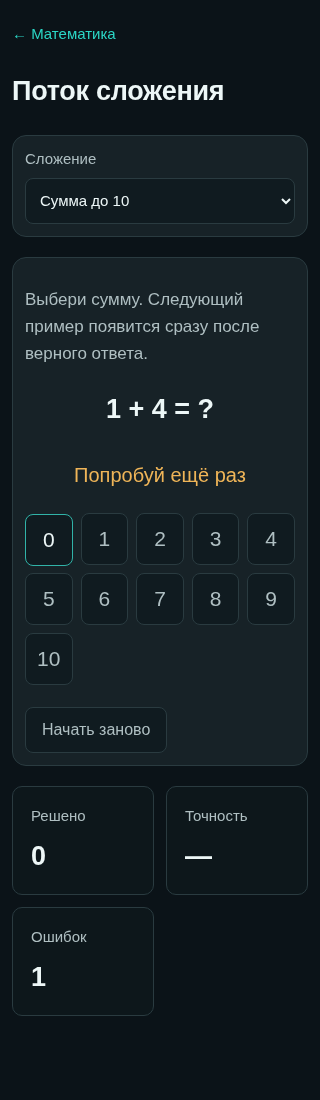
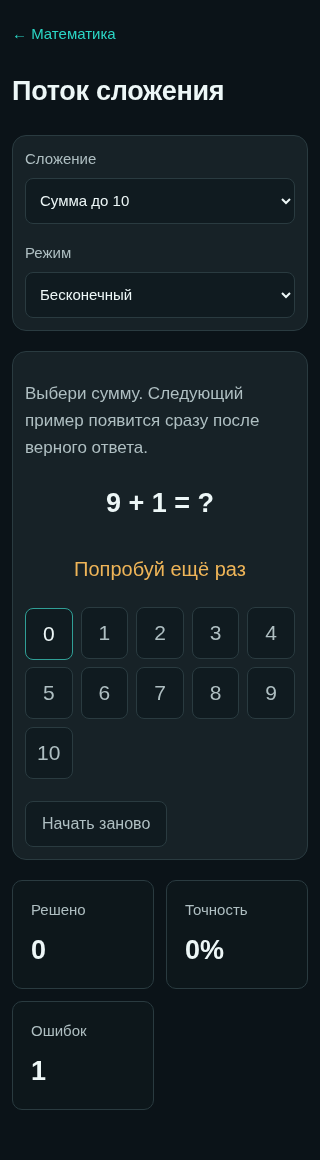
Add survival and three-heart modes to addition stream

diff --git a/src/modules/mathlab/addition-flow.ts b/src/modules/mathlab/addition-flow.ts
@@ -17,31 +17,66 @@ export class AdditionDeck {
   const task=this.deck.pop()!;return this.random()<.5?task:{a:task.b,b:task.a};
  }
 }
-export interface FlowProgress {version:1;limit:10|20;task:Addition;hadError:boolean;solved:number;correct:number;errors:number}
-export function validFlow(value:unknown):value is FlowProgress{
- const p=value as FlowProgress|undefined;
- return !!p&&p.version===1&&(p.limit===10||p.limit===20)&&!!p.task&&Number.isInteger(p.task.a)&&Number.isInteger(p.task.b)&&p.task.a>=1&&p.task.b>=1&&additionTotal(p.task)<=p.limit&&typeof p.hadError==='boolean'&&[p.solved,p.correct,p.errors].every(n=>Number.isSafeInteger(n)&&n>=0)&&p.correct<=p.solved;
+export type FlowMode='endless'|'survival'|'lives';
+export interface FlowProgress {mode:FlowMode;lives:number;ended:boolean;version:1;limit:10|20;task:Addition;hadError:boolean;solved:number;correct:number;errors:number}
+type StoredFlow=Omit<FlowProgress,'mode'|'lives'|'ended'> & Partial<Pick<FlowProgress,'mode'|'lives'|'ended'>>;
+export function validFlow(value:unknown):value is StoredFlow{
+ const p=value as StoredFlow|undefined;
+ if(!p||p.version!==1||![10,20].includes(p.limit)||!p.task||!Number.isInteger(p.task.a)||!Number.isInteger(p.task.b)||p.task.a<1||p.task.b<1||additionTotal(p.task)>p.limit||typeof p.hadError!=='boolean'||![p.solved,p.correct,p.errors].every(n=>Number.isSafeInteger(n)&&n>=0)||p.correct>p.solved)return false;
+ // Old snapshots had no mode fields. They resume as endless, keeping all progress.
+ if(p.mode===undefined&&p.lives===undefined&&p.ended===undefined)return true;
+ if(!p.mode||!['endless','survival','lives'].includes(p.mode)||typeof p.lives!=='number'||!Number.isInteger(p.lives)||typeof p.ended!=='boolean')return false;
+ return p.lives>=0&&p.lives<=(p.mode==='lives'?3:p.mode==='survival'?1:0)&&(p.mode==='endless'?!p.ended:p.ended===(p.lives===0));
 }
 const memory=new Map<string,FlowProgress>();
 export const mountAdditionFlow:MountFn=(root,ctx)=>{
  const storageKey=`sciencechess-mathlab:v1:${ctx.profile.id}:addition-flow`;
  let saved:unknown=memory.get(storageKey);try{if(!saved)saved=JSON.parse(localStorage.getItem(storageKey)||'null');}catch{}
  let deck=new AdditionDeck(validFlow(saved)?saved.limit:10);
- let state:FlowProgress=validFlow(saved)?{...saved,task:{...saved.task}}:{version:1,limit:10,task:deck.next(),hadError:false,solved:0,correct:0,errors:0};
+ let state:FlowProgress=validFlow(saved)?{...saved,mode:saved.mode??'endless',lives:saved.lives??0,ended:saved.ended??false,task:{...saved.task}}:{mode:'endless',lives:0,ended:false,version:1,limit:10,task:deck.next(),hadError:false,solved:0,correct:0,errors:0};
  let timer:number|undefined,locked=false,disposed=false;
  const page=el('div',{class:'mathlab','data-exercise':'addition-flow'});
  const settings=el('select',{'aria-label':'Сложение'});
  for(const limit of [10,20]){const option=el('option',{value:String(limit)},[`Сумма до ${limit}`]);option.selected=limit===state.limit;settings.append(option);}
+ const modeSelect=el('select',{'aria-label':'Режим'});
+ for(const [value,label] of [['endless','Бесконечный'],['survival','До первой ошибки'],['lives','Три жизни']]){const option=el('option',{value},[label]);option.selected=value===state.mode;modeSelect.append(option);}
+ const lives=el('div',{class:'ml-flow-lives',role:'img'});
+ const result=el('div',{class:'ml-flow-result',role:'status','aria-live':'polite'});
+ const instruction=el('p',{class:'ml-instruction'});
  const equation=el('div',{class:'ml-equation',role:'status','aria-live':'polite'});
  const feedback=el('p',{class:'ml-flow-feedback',role:'status','aria-live':'polite'});
  const pad=el('div',{class:'ml-keypad ml-flow-keypad',role:'group','aria-label':'Выбери сумму'});
  const stats=el('div',{class:'ml-stats'}),notice=el('p',{class:'ml-muted'});
  function persist(){memory.set(storageKey,{...state,task:{...state.task}});try{localStorage.setItem(storageKey,JSON.stringify(state));}catch{notice.textContent='Прогресс сохраняется только в этой вкладке.';}}
- function renderStats(){stats.replaceChildren(...[['Решено',state.solved],['Точность',state.solved?`${Math.round(state.correct/state.solved*100)}%`:'—'],['Ошибок',state.errors]].map(([title,value])=>el('div',{class:'ml-stat'},[el('span',{},[String(title)]),el('strong',{},[String(value)])])));}
- function show(){equation.textContent=`${state.task.a} + ${state.task.b} = ?`;pad.querySelectorAll<HTMLButtonElement>('button').forEach(b=>{b.disabled=false;b.removeAttribute('aria-pressed');});renderStats();}
+ function renderStats(){const attempted=state.solved+(state.hadError?1:0);stats.replaceChildren(...[['Решено',state.solved],['Точность',attempted?`${Math.round(state.correct/attempted*100)}%`:'—'],['Ошибок',state.errors]].map(([title,value])=>el('div',{class:'ml-stat'},[el('span',{},[String(title)]),el('strong',{},[String(value)])])));}
+ function renderLives(){
+  lives.hidden=state.mode==='endless';lives.replaceChildren();
+  lives.setAttribute('aria-label',`Жизни: ${state.lives} из ${state.mode==='lives'?3:1}`);
+  for(let i=0;i<state.lives;i++){
+   const svg=document.createElementNS('http://www.w3.org/2000/svg','svg');svg.setAttribute('viewBox','0 0 32 30');svg.setAttribute('aria-hidden','true');svg.classList.add('ml-flow-heart');
+   const path=document.createElementNS(svg.namespaceURI,'path');path.setAttribute('d','M16 28 3.5 15.5C-4 8 6-3 14 5l2 2 2-2c8-8 18 3 10.5 10.5Z');svg.append(path);lives.append(svg);
+  }
+ }
+ function show(){
+  locked=state.ended;renderLives();result.replaceChildren();result.hidden=!state.ended;
+  instruction.textContent=state.mode==='endless'?'Выбери сумму. Следующий пример появится сразу после верного ответа.':state.mode==='survival'?'Решай до первой ошибки. Выбери сумму.':'Три жизни. Каждый неверный ответ убирает сердечко.';
+  if(state.ended){result.append(el('h2',{},['Попытка завершена']),el('p',{},[`Решено примеров: ${state.solved}.`]),button('Новая попытка',()=>reset(), 'ml-primary'));feedback.className='ml-flow-feedback ml-retry';feedback.textContent=`${state.task.a} + ${state.task.b} = ${additionTotal(state.task)}`;}
+  equation.textContent=`${state.task.a} + ${state.task.b} = ?`;pad.querySelectorAll<HTMLButtonElement>('button').forEach(b=>{b.disabled=state.ended;b.removeAttribute('aria-pressed');});renderStats();}
  function answer(n:number){
   if(disposed||locked)return;
-  if(n!==additionTotal(state.task)){state.hadError=true;state.errors++;feedback.className='ml-flow-feedback ml-retry';feedback.textContent='Попробуй ещё раз';persist();renderStats();return;}
+  if(n!==additionTotal(state.task)){
+   state.hadError=true;state.errors++;
+   if(state.mode!=='endless'){state.lives--;state.ended=state.lives===0;}
+   feedback.className='ml-flow-feedback ml-retry';feedback.textContent='Попробуй ещё раз';
+   persist();renderStats();renderLives();
+   if(state.ended)show();
+   else if(state.mode!=='endless'){
+    // Lock briefly so a double tap cannot consume several hearts at once.
+    locked=true;pad.querySelectorAll<HTMLButtonElement>('button').forEach(b=>b.disabled=true);
+    timer=window.setTimeout(()=>{timer=undefined;if(disposed)return;locked=false;show();},350);
+   }
+   return;
+  }
   locked=true;state.solved++;if(!state.hadError)state.correct++;
   const solved=state.task;feedback.className='ml-flow-feedback ml-correct';feedback.textContent=`Верно! ${solved.a} + ${solved.b} = ${n}`;
   pad.querySelectorAll<HTMLButtonElement>('button').forEach(b=>{b.disabled=true;b.setAttribute('aria-pressed',String(Number(b.dataset.value)===n));});
@@ -49,9 +84,10 @@ export const mountAdditionFlow:MountFn=(root,ctx)=>{
   timer=window.setTimeout(()=>{timer=undefined;if(disposed)return;locked=false;feedback.textContent='';show();},350);
  }
  function keypad(){pad.replaceChildren();for(let n=0;n<=state.limit;n++){const b=button(String(n),()=>answer(n));b.dataset.value=String(n);pad.append(b);}}
- function reset(limit:10|20=state.limit){if(timer!==undefined)clearTimeout(timer);timer=undefined;locked=false;deck=new AdditionDeck(limit);state={version:1,limit,task:deck.next(),hadError:false,solved:0,correct:0,errors:0};feedback.textContent='';persist();keypad();show();}
+ function reset(limit:10|20=state.limit,mode:FlowMode=state.mode){if(timer!==undefined)clearTimeout(timer);timer=undefined;locked=false;deck=new AdditionDeck(limit);state={mode,lives:mode==='lives'?3:mode==='survival'?1:0,ended:false,version:1,limit,task:deck.next(),hadError:false,solved:0,correct:0,errors:0};feedback.textContent='';persist();keypad();show();}
+ modeSelect.addEventListener('change',()=>reset(state.limit,modeSelect.value as FlowMode));
  settings.addEventListener('change',()=>reset(Number(settings.value) as 10|20));
- page.append(el('a',{href:'#math',class:'ml-back'},['← Математика']),el('h1',{},['Поток сложения']),el('section',{class:'ml-panel'},[el('label',{class:'ml-field'},[el('span',{},['Сложение']),settings])]),el('section',{class:'ml-panel ml-flow-stage'},[el('p',{class:'ml-instruction'},['Выбери сумму. Следующий пример появится сразу после верного ответа.']),equation,feedback,pad,el('div',{class:'ml-actions'},[button('Начать заново',()=>reset())])]),stats,notice);
+ page.append(el('a',{href:'#math',class:'ml-back'},['← Математика']),el('h1',{},['Поток сложения']),el('section',{class:'ml-panel'},[el('label',{class:'ml-field'},[el('span',{},['Сложение']),settings]),el('label',{class:'ml-field'},[el('span',{},['Режим']),modeSelect])]),el('section',{class:'ml-panel ml-flow-stage'},[instruction,lives,equation,feedback,result,pad,el('div',{class:'ml-actions'},[button('Начать заново',()=>reset())])]),stats,notice);
  root.append(page);keypad();show();
  return ()=>{disposed=true;if(timer!==undefined)clearTimeout(timer);};
 };

diff --git a/tests/addition-flow.test.ts b/tests/addition-flow.test.ts
@@ -29,3 +29,35 @@ it('works when local storage is blocked and resets safely while transitioning',a
   await vi.advanceTimersByTimeAsync(1000);expect(root.querySelector('.ml-equation')!.textContent).toBe(text);expect(root.querySelectorAll('.ml-keypad button')).toHaveLength(21);expect(root.querySelector('.ml-stats')!.textContent).toContain('Решено0');
  }finally{dispose();root.remove();storage.mockRestore();vi.useRealTimers();}
 });
+it('survival ends on the first error, restores the ended state, and restarts cleanly',async()=>{
+ vi.useFakeTimers();const root=document.createElement('main');document.body.append(root);const ctx={profile:{id:'flow-survival-unit'}} as AppContext;let dispose=mountAdditionFlow(root,ctx);
+ const choose=(n:number)=>root.querySelector<HTMLButtonElement>(`[data-value="${n}"]`)!.click();
+ try{
+  const mode=root.querySelector<HTMLSelectElement>('[aria-label="Режим"]')!;mode.value='survival';mode.dispatchEvent(new Event('change'));
+  expect(root.querySelectorAll('.ml-flow-heart')).toHaveLength(1);
+  const sum=()=>[...root.querySelector('.ml-equation')!.textContent!.matchAll(/\d+/g)].reduce((n,m)=>n+Number(m[0]),0);
+  choose(sum());await vi.advanceTimersByTimeAsync(350);choose(0);choose(0);
+  expect(root.textContent).toContain('Попытка завершена');expect(root.querySelectorAll('.ml-flow-heart')).toHaveLength(0);expect(root.querySelector('.ml-stats')!.textContent).toContain('Точность50%');
+  expect([...root.querySelectorAll<HTMLButtonElement>('.ml-keypad button')].every(b=>b.disabled)).toBe(true);
+  dispose();root.replaceChildren();dispose=mountAdditionFlow(root,ctx);expect(root.textContent).toContain('Попытка завершена');
+  [...root.querySelectorAll('button')].find(b=>b.textContent==='Новая попытка')!.click();expect(root.querySelectorAll('.ml-flow-heart')).toHaveLength(1);expect(root.querySelector('.ml-stats')!.textContent).toContain('Решено0');
+ }finally{dispose();root.remove();vi.useRealTimers();}
+});
+it('three lives disappear once per separate error and mode changes cancel pending cooldowns',async()=>{
+ vi.useFakeTimers();const root=document.createElement('main');document.body.append(root);const dispose=mountAdditionFlow(root,{profile:{id:'flow-three-unit'}} as AppContext);
+ try{
+  const mode=root.querySelector<HTMLSelectElement>('[aria-label="Режим"]')!;mode.value='lives';mode.dispatchEvent(new Event('change'));
+  const wrong=()=>root.querySelector<HTMLButtonElement>('[data-value="0"]')!.click();
+  expect(root.querySelectorAll('.ml-flow-heart')).toHaveLength(3);wrong();wrong();expect(root.querySelectorAll('.ml-flow-heart')).toHaveLength(2);
+  await vi.advanceTimersByTimeAsync(350);wrong();expect(root.querySelectorAll('.ml-flow-heart')).toHaveLength(1);
+  await vi.advanceTimersByTimeAsync(350);wrong();expect(root.querySelectorAll('.ml-flow-heart')).toHaveLength(0);expect(root.textContent).toContain('Попытка завершена');
+  mode.value='lives';mode.dispatchEvent(new Event('change'));wrong();mode.value='endless';mode.dispatchEvent(new Event('change'));await vi.advanceTimersByTimeAsync(1000);
+  expect(root.querySelector<HTMLElement>('.ml-flow-lives')!.hidden).toBe(true);expect(root.querySelector('.ml-stats')!.textContent).toContain('Ошибок0');wrong();expect(root.textContent).toContain('Попробуй ещё раз');expect(root.querySelector('.ml-flow-result')!.hasAttribute('hidden')).toBe(true);
+ }finally{dispose();root.remove();vi.useRealTimers();}
+});
+it('preserves legacy endless progress and rejects inconsistent life snapshots',()=>{
+ const old={version:1,limit:10,task:{a:3,b:4},hadError:false,solved:7,correct:6,errors:1};const id='flow-legacy';localStorage.setItem(`sciencechess-mathlab:v1:${id}:addition-flow`,JSON.stringify(old));
+ const root=document.createElement('main');const dispose=mountAdditionFlow(root,{profile:{id}} as AppContext);
+ try{expect(root.querySelector('.ml-stats')!.textContent).toContain('Решено7');expect(root.querySelector<HTMLSelectElement>('[aria-label="Режим"]')!.value).toBe('endless');}finally{dispose();}
+ expect(validFlow({...old,mode:'lives',lives:0,ended:false})).toBe(false);expect(validFlow({...old,mode:'lives',lives:-1,ended:true})).toBe(false);expect(validFlow({...old,mode:'survival',lives:3,ended:false})).toBe(false);expect(validFlow({...old,mode:'lives',lives:0,ended:true})).toBe(true);
+});

diff --git a/src/modules/mathlab/index.ts b/src/modules/mathlab/index.ts
@@ -22,7 +22,7 @@ export const mountMathLab:MountFn=(root,ctx)=>{
  page.append(el('p',{class:'ml-eyebrow'},['MathLab']),el('h1',{},['Математика']),el('p',{class:'ml-intro'},['Числа, их части и первые шаги в устном счёте.']));
  const cards=el('div',{class:'ml-cards'});
  for(const id of EXERCISES.filter(id=>id!=='material'))cards.append(el('a',{class:'ml-card',href:route(id)},[el('span',{class:'ml-symbol','aria-hidden':'true'},[symbols[id]]),el('h2',{},[TITLES[id]]),el('p',{},[descriptions[id]]),el('span',{class:'ml-card-link'},['Открыть →'])]));
- cards.append(el('a',{class:'ml-card',href:'#math-addition-flow'},[el('span',{class:'ml-symbol','aria-hidden':'true'},['5 + 3']),el('h2',{},['Поток сложения']),el('p',{},['Короткие примеры без конца серии. Выбирай ответ и решай дальше.']),el('span',{class:'ml-card-link'},['Открыть →'])]));
+ cards.append(el('a',{class:'ml-card',href:'#math-addition-flow'},[el('span',{class:'ml-symbol','aria-hidden':'true'},['5 + 3']),el('h2',{},['Поток сложения']),el('p',{},['Сложение потоком: без конца, до ошибки или с тремя жизнями.']),el('span',{class:'ml-card-link'},['Открыть →'])]));
  page.append(cards);const recent=el('section',{class:'ml-panel'},[el('h2',{},['Последние тренировки'])]);const list=el('div');history(list,mathStorage(ctx.profile.id).results().filter(r=>r.exercise!=='material'));recent.append(list);page.append(recent);
  return ()=>{};
 };

diff --git a/src/modules/mathlab/styles.css b/src/modules/mathlab/styles.css
@@ -97,3 +97,10 @@
 .mathlab .ml-flow-feedback{min-height:30px;text-align:center;font-size:20px;margin:8px 0}
 .mathlab .ml-flow-keypad{max-width:500px}
 .mathlab .ml-flow-keypad .btn{min-height:52px}
+.mathlab .ml-flow-lives{display:flex;justify-content:center;gap:10px;min-height:34px;margin:16px 0}
+.mathlab .ml-flow-heart{width:32px;height:30px;fill:#ed7585}
+.mathlab .ml-flow-result{text-align:center;border:1px solid var(--ml-line);border-radius:12px;padding:18px;margin:16px 0}
+.mathlab .ml-flow-result h2{margin:0}
+.mathlab .ml-flow-stage .ml-flow-result[hidden]{display:none}
+.mathlab[data-exercise=addition-flow]>.ml-panel:first-of-type{display:grid;grid-template-columns:repeat(2,minmax(0,1fr));gap:18px}
+@media(max-width:430px){.mathlab[data-exercise=addition-flow]>.ml-panel:first-of-type{grid-template-columns:1fr}}

diff --git a/docs/addition-flow/README.md b/docs/addition-flow/README.md
@@ -2,12 +2,13 @@
 
 MathLab → Поток сложения, прямая ссылка `#math-addition-flow`.
 
+- Режимы: «Бесконечный», «До первой ошибки» (1 жизнь) и «Три жизни» (3 сердечка). Неверный ответ убирает сердце, верный не расходует жизни. При нуле жизней ввод блокируется, показывается правильная сумма и результат; «Новая попытка» восстанавливает жизни. Короткая блокировка после ошибки защищает от двойного нажатия.
 - Бесконечная последовательность сложений с положительными целыми слагаемыми, сумма до 10 по умолчанию или до 20.
 - Выбор ответа кнопками 0–10 / 0–20 без текстового поля и экранной клавиатуры. Доступны обычные Tab/Enter/Space.
 - Правильный ответ блокирует ввод на 350 мс, показывает подтверждение и автоматически открывает следующий пример. Неправильный оставляет текущий пример, правильный ответ заранее не раскрывается.
-- Решено — число завершённых примеров; точность — доля примеров, решённых с первой попытки; ошибки — число неверных ответов. Таймера и конечной серии нет.
+- Решено — число завершённых примеров; точность — доля примеров, решённых с первой попытки; ошибки — число неверных ответов. Ограничения времени нет; в режимах выживания попытка заканчивается при потере всех жизней. Точность включает текущий пример с ошибкой, даже если он пока не решён.
 - Перемешанная колода из 25 или 100 разных пар заново перемешивается после исчерпания. Соседние пары не повторяются, включая перестановку слагаемых. Память не растёт с продолжительностью работы.
-- Локальный снимок прогресса обновляется после каждого ответа: текущий пример, первая попытка, счётчики и диапазон. После перезагрузки можно продолжить. Изменение диапазона и «Начать заново» сбрасывают поток. При недоступном localStorage работает сохранение в памяти вкладки.
+- Локальный снимок прогресса обновляется после каждого ответа: текущий пример, первая попытка, счётчики, диапазон, режим, оставшиеся жизни и завершение попытки. Старые снимки автоматически открываются в бесконечном режиме без потери прогресса. После перезагрузки можно продолжить. Изменение диапазона и «Начать заново» сбрасывают поток. При недоступном localStorage работает сохранение в памяти вкладки.
 - Пространство хранения: `sciencechess-mathlab:v1:<profile>:addition-flow`, version 1. Старые математические и шахматные результаты не меняются.
 - При уходе со страницы таймер очищается; следующий пример заранее сохранён, двойной ответ не засчитывается.
 
